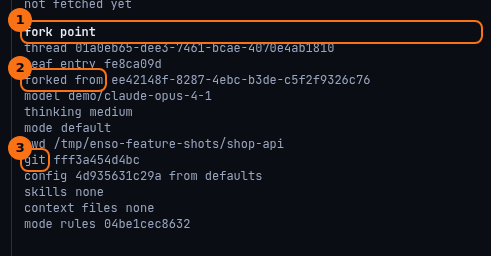
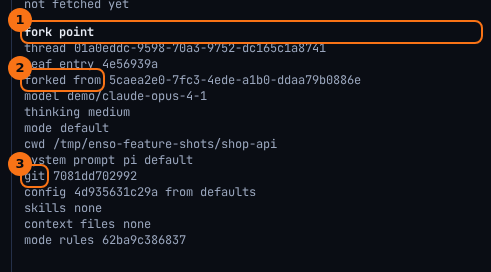
feat: the fork point names the system prompt a thread runs (#443)
Decision 3 from the #455 review. `EnsoForkPoint.conditions.systemPrompt` is read off the branch's
last `enso-system-prompt` entry — the same `threadSystemPrompt` the Context tab labels with — as a
library prompt's id, name, mode and sha256 (never its text), `null` for pi's default, or
`unreadable`. No new write: model and mode are derived from the branch the same way.

The lineage page tells people to compare two fork points and find exactly what differs; two
threads started with different system prompts now differ there, and a fork shows the prompt it
inherited. The debug drawer lists it as `Reviewer (append) · sha256 3f2a1b2c9d0e…`.

Tests: the schema (a text field is refused), the drawer row, the manifest route, and against pi's
real session: live, stored and on a fork, the fork point names the prompt the thread started with.

Changed region(s): [[0.0, 0.0, 1.0, 0.9062]]

diff --git a/packages/web/src/__tests__/thread-debug.test.tsx b/packages/web/src/__tests__/thread-debug.test.tsx
@@ -122,7 +122,7 @@ const renderWith = ({
   )
 
 // #435: the fork point, identity first, then what the thread runs under — hashes shortened.
-test('the fork point lists identity, then the conditions and the run context it records', () => {
+test('the fork point lists identity, then the conditions — the system prompt among them — and the run context it records', () => {
   const point: EnsoForkPoint = {
     identity: { threadId: 'fork-1', leafEntryId: 'e9', parentThreadId: 'source-1' },
     conditions: {
@@ -137,21 +137,32 @@ test('the fork point lists identity, then the conditions and the run context it 
         contextFiles: [{ path: '/repo/AGENTS.md', sha256: 'c'.repeat(64) }],
         mode: { rulesHash: 'd'.repeat(64) },
       },
+      systemPrompt: { id: 'reviewer', name: 'Reviewer', mode: 'append', sha256: 'e'.repeat(64) },
     },
   }
   const rendered = renderWith({ browser: believing('plan'), inspection: undefined, manifest: point })
-  const order = ['fork-1', 'source-1', 'anthropic/claude-x', 'high', '/repo', `${'a'.repeat(12)} dirty`]
+  const order = [
+    'fork-1',
+    'source-1',
+    'anthropic/claude-x',
+    'high',
+    '/repo',
+    `Reviewer (append) · sha256 ${'e'.repeat(12)}…`,
+    `${'a'.repeat(12)} dirty`,
+  ]
   const positions = order.map((text) => rendered.indexOf(text))
   expect(positions.every((position) => position >= 0)).toBe(true)
   expect(positions).toEqual([...positions].sort((first, second) => first - second))
   expect(rendered).toContain(`/repo/AGENTS.md ${'c'.repeat(12)}`)
   expect(rendered).not.toContain('c'.repeat(13))
+  expect(rendered).not.toContain('e'.repeat(13))
   const fresh = renderWith({
     browser: believing('plan'),
     inspection: undefined,
-    manifest: { ...point, conditions: { ...point.conditions, runContext: null } },
+    manifest: { ...point, conditions: { ...point.conditions, runContext: null, systemPrompt: null } },
   })
   expect(fresh).toContain('none recorded yet')
+  expect(fresh).toContain('pi default')
 })
 
 // ── the mismatch highlight ───────────────────────────────────────────────────

diff --git a/packages/web/src/host/__tests__/agent-host.test.ts b/packages/web/src/host/__tests__/agent-host.test.ts
@@ -1945,6 +1945,7 @@ test('⚠ two forks of one thread, one of them run under a changed context file,
     mode: 'default',
     cwd: repoRoot,
     runContext: recorded,
+    systemPrompt: null,
   })
   expect(changedPoint.conditions).toEqual({ ...plainPoint.conditions, runContext: changedContext })
   // PR #439 review: a newest record that does not read (another schema's) is unknown — never the
@@ -2279,6 +2280,23 @@ test("⚠⚠ a system prompt set at start is the first request's preamble in pla
   expect(systemMessages).toHaveLength(1)
   // The model never sees the record.
   expect(JSON.stringify(requests)).not.toContain(ENSO_SYSTEM_PROMPT_ENTRY)
+
+  // The fork point names it — live, stored, and on a fork, whose branch carries the record — by
+  // name and hash, never its text.
+  const named = { id: choice.id, name: choice.name, mode: choice.mode, sha256: choice.sha256 }
+  expect((await resumed.forkPoint()).conditions.systemPrompt).toEqual(named)
+  expect((await host.readStoredForkPoint(threadId))?.conditions.systemPrompt).toEqual(named)
+  const second = SessionManager.open(file)
+    .getBranch()
+    .find(
+      (entry) =>
+        entry.type === 'message' &&
+        entry.message.role === 'user' &&
+        JSON.stringify(entry.message.content).includes('two'),
+    )
+  const fork = await host.forkThread(threadId, second?.id ?? '')
+  if (fork.kind !== 'forked') throw new Error(`the fork was refused: ${fork.kind}`)
+  expect((await host.readStoredForkPoint(fork.threadId))?.conditions.systemPrompt).toEqual(named)
 })
 
 test("an append prompt keeps every pi section and adds its text after them; a session that already sent pi's default refuses one (#443)", async () => {

diff --git a/packages/core/src/__tests__/run-context.test.ts b/packages/core/src/__tests__/run-context.test.ts
@@ -37,9 +37,28 @@ test('a malformed run context reads as none: bad hash, missing field, a file bod
 test('a fork point takes an empty branch and no run context, and refuses an unknown field', () => {
   const point = {
     identity: { threadId: 't1', leafEntryId: null },
-    conditions: { model: null, thinkingLevel: null, mode: 'default', cwd: '/repo', runContext: null },
+    conditions: {
+      model: null,
+      thinkingLevel: null,
+      mode: 'default',
+      cwd: '/repo',
+      runContext: null,
+      systemPrompt: null,
+    },
   }
   expect(Check(EnsoForkPoint, point)).toBe(true)
   expect(Check(EnsoForkPoint, { ...point, conditions: { ...point.conditions, runContext: RECORD } })).toBe(true)
   expect(Check(EnsoForkPoint, { ...point, identity: { ...point.identity, sessionFile: '/x.jsonl' } })).toBe(false)
+})
+
+test("a fork point's system prompt is a library prompt's name and hash, pi's default or unreadable — never its text (#443)", () => {
+  const conditions = { model: null, thinkingLevel: null, mode: 'default', cwd: '/repo', runContext: null }
+  const point = (systemPrompt: unknown): unknown => ({
+    identity: { threadId: 't1', leafEntryId: null },
+    conditions: { ...conditions, systemPrompt },
+  })
+  const reviewer = { id: 'reviewer', name: 'Reviewer', mode: 'system', sha256: HASH }
+  expect(Check(EnsoForkPoint, point(reviewer))).toBe(true)
+  expect(Check(EnsoForkPoint, point('unreadable'))).toBe(true)
+  expect(Check(EnsoForkPoint, point({ ...reviewer, text: 'the prompt itself' }))).toBe(false)
 })

diff --git a/packages/web/src/host/fork-point.ts b/packages/web/src/host/fork-point.ts
@@ -1,5 +1,6 @@
 import { ENSO_RUN_CONTEXT_ENTRY, type EnsoForkPoint, lastCustomEntryData, readEnsoRunContext } from '@enso/core'
 import { persistedPermissionMode } from './permission-mode-adapter.ts'
+import { threadSystemPrompt } from './system-prompt.ts'
 import { recordedModelOf } from './transcript.ts'
 
 /**
@@ -7,8 +8,9 @@ import { recordedModelOf } from './transcript.ts'
  * session's memory and a stored file, so the manifest of a thread reads one way whether it is
  * running. Identity is the session id, the branch's leaf and the parent the listing resolves
  * (#433); the conditions are the branch's recorded model and level (#434), picc's last mode
- * name, the session's cwd, and the latest `enso-run-context` on the branch — the harness's
- * `run-context` extension writes one only when a condition changed, so the last one is current.
+ * name, the session's cwd, the latest `enso-run-context` on the branch — the harness's
+ * `run-context` extension writes one only when a condition changed, so the last one is current —
+ * and the system prompt its last `enso-system-prompt` entry names (#443), hash and name only.
  */
 
 /** The one field of a pi entry the fork point reads itself — the leaf's id. */
@@ -39,6 +41,7 @@ export function forkPointOf(
       // unknown, never walked past to one that reads.
       runContext:
         readEnsoRunContext(ENSO_RUN_CONTEXT_ENTRY, lastCustomEntryData(branch, ENSO_RUN_CONTEXT_ENTRY)) ?? null,
+      systemPrompt: threadSystemPrompt(branch),
     },
   }
 }

diff --git a/packages/web/src/thread-debug.tsx b/packages/web/src/thread-debug.tsx
@@ -225,6 +225,13 @@ function manifestProblemOf(failure: unknown): string {
   return failure instanceof Error ? failure.message : String(failure)
 }
 
+/** The fork point's system prompt as one line: the library prompt's name, mode and hash prefix, never its text. */
+function systemPromptRow(prompt: EnsoForkPoint['conditions']['systemPrompt']): string {
+  if (prompt === null) return 'pi default'
+  if (prompt === 'unreadable') return 'unreadable record'
+  return `${prompt.name} (${prompt.mode}) · sha256 ${prompt.sha256.slice(0, 12)}…`
+}
+
 /** The manifest (#435) as a definition list: identity first, then the conditions it runs under. */
 function ForkPointList({ reading }: { reading: ForkPointReading }): React.ReactNode {
   if (reading === undefined) return <div>reading…</div>
@@ -238,6 +245,7 @@ function ForkPointList({ reading }: { reading: ForkPointReading }): React.ReactN
     ['thinking', conditions.thinkingLevel ?? 'none recorded'],
     ['mode', conditions.mode],
     ['cwd', conditions.cwd],
+    ['system prompt', systemPromptRow(conditions.systemPrompt)],
     ...(conditions.runContext === null
       ? [['run context', 'none recorded yet'] as const]
       : runContextRows(conditions.runContext)),

diff --git a/packages/core/src/run-context.ts b/packages/core/src/run-context.ts
@@ -1,5 +1,6 @@
 import { type Static, Type } from 'typebox'
 import { Compile } from 'typebox/compile'
+import { EnsoThreadSystemPrompt } from './prompt-library.ts'
 import { EnsoRecordedModel } from './thread-runtime.ts'
 
 /**
@@ -129,6 +130,12 @@ export const EnsoForkPoint = Type.Object(
          * does not read (another schema's): an older one is not the current conditions.
          */
         runContext: Type.Union([EnsoRunContext, Type.Null()]),
+        /**
+         * The system prompt the branch records (#443): a library prompt's id, name, mode and hash —
+         * never its text — `null` for pi's default, `unreadable` for a record that does not read. Two
+         * threads started with different prompts differ here, and nowhere else says so.
+         */
+        systemPrompt: EnsoThreadSystemPrompt,
       },
       { additionalProperties: false },
     ),

diff --git a/packages/web/src/server/__tests__/fake-hosted-thread.ts b/packages/web/src/server/__tests__/fake-hosted-thread.ts
@@ -357,7 +357,14 @@ export function createFakeHostedThread(options: FakeHostedThreadOptions = {}): F
       Promise.resolve(
         options.forkPoint ?? {
           identity: { threadId: inspection.sessionId, leafEntryId: inspection.entries.at(-1)?.id ?? null },
-          conditions: { model: null, thinkingLevel: null, mode: 'default', cwd: inspection.cwd, runContext: null },
+          conditions: {
+            model: null,
+            thinkingLevel: null,
+            mode: 'default',
+            cwd: inspection.cwd,
+            runContext: null,
+            systemPrompt: null,
+          },
         },
       ),
   }
@@ -530,6 +537,7 @@ export function createFakeAgentHost(
             mode: storedThread.mode ?? fresh.mode,
             cwd: directoryOf(storedThread),
             runContext: null,
+            systemPrompt: null,
           },
         },
       )

diff --git a/packages/web/src/server/__tests__/server-handler.test.ts b/packages/web/src/server/__tests__/server-handler.test.ts
@@ -1276,7 +1276,14 @@ test('GET …/context/:request reads a turn or `next`; any other segment, or a t
 test('GET …/manifest answers a cold thread from its file without building, a live one from its session, and 404 for neither', async () => {
   const point: EnsoForkPoint = {
     identity: { threadId: 's1', leafEntryId: 'e2', parentThreadId: 's0' },
-    conditions: { model: null, thinkingLevel: 'high', mode: 'plan', cwd: '/repo', runContext: null },
+    conditions: {
+      model: null,
+      thinkingLevel: 'high',
+      mode: 'plan',
+      cwd: '/repo',
+      runContext: null,
+      systemPrompt: { id: 'reviewer', name: 'Reviewer', mode: 'system', sha256: 'e'.repeat(64) },
+    },
   }
   const { url, built } = await startWith(settlesAtOnce, {
     s1: { transcript: [], modified: new Date('2026-09-24T10:00:00.000Z'), firstMessage: 'one', forkPoint: point },

diff --git a/packages/web/src/host/system-prompt.ts b/packages/web/src/host/system-prompt.ts
@@ -62,8 +62,11 @@ function sameSystemPrompt(current: EnsoSystemPromptChoice | undefined, next: Ens
   return current.id === next.id && current.mode === next.mode && current.sha256 === next.sha256
 }
 
-/** The branch's system prompt as a view shows it: the choice without its text, pi's default, or unreadable. */
-export function threadSystemPrompt(branch: readonly SessionEntry[]): EnsoThreadSystemPrompt {
+/**
+ * The branch's system prompt as a view shows it — the Context tab's label, the fork point's
+ * condition: the choice without its text, pi's default, or unreadable.
+ */
+export function threadSystemPrompt(branch: readonly unknown[]): EnsoThreadSystemPrompt {
   const recorded = recordedSystemPrompt(branch)
   if (recorded.kind === 'none') return null
   if (recorded.kind === 'unreadable') return 'unreadable'

diff --git a/docs/reference/core-exports.md b/docs/reference/core-exports.md
@@ -55,7 +55,7 @@ glossary domain are checked records keyed by defining module; a new or unknown m
 | `ENSO_REDACT_FIELDS` | value | `@enso/core` | [`log.ts`](../../packages/core/src/log.ts) | [Record](../glossary.md#record) | wire | 0 | 0 | 0 | 0 | 0 | [L173](../../packages/core/src/log.ts#L173) |
 | `ENSO_REDACTED` | value | `@enso/core` | [`log.ts`](../../packages/core/src/log.ts) | [Record](../glossary.md#record) | wire | 0 | 0 | 0 | 0 | 0 | [L185](../../packages/core/src/log.ts#L185) |
 | `ENSO_REDACTED_VALUE` | value | `@enso/core` | [`log.ts`](../../packages/core/src/log.ts) | [Record](../glossary.md#record) | wire | 0 | 0 | 0 | 0 | 0 | [L197](../../packages/core/src/log.ts#L197) |
-| `ENSO_RUN_CONTEXT_ENTRY` | value | `@enso/core` | [`run-context.ts`](../../packages/core/src/run-context.ts) | [Thread](../glossary.md#thread), [Record](../glossary.md#record) | wire | 1 | 0 | 0 | 1 | 0 | [L28](../../packages/core/src/run-context.ts#L28) |
+| `ENSO_RUN_CONTEXT_ENTRY` | value | `@enso/core` | [`run-context.ts`](../../packages/core/src/run-context.ts) | [Thread](../glossary.md#thread), [Record](../glossary.md#record) | wire | 1 | 0 | 0 | 1 | 0 | [L29](../../packages/core/src/run-context.ts#L29) |
 | `ENSO_SYSTEM_PROMPT_ENTRY` | value | `@enso/core` | [`prompt-library.ts`](../../packages/core/src/prompt-library.ts) | [Thread](../glossary.md#thread), [Record](../glossary.md#record) | wire | 1 | 0 | 0 | 0 | 0 | [L295](../../packages/core/src/prompt-library.ts#L295) |
 | `ENSO_TOOL_RESULT_KEY` | value | `@enso/core` | [`tool-result.ts`](../../packages/core/src/tool-result.ts) | [Surface](../glossary.md#surface), [Observation](../glossary.md#observation) | wire | 1 | 1 | 1 | 0 | 0 | [L54](../../packages/core/src/tool-result.ts#L54) |
 | `EnsoAbortReceipt` | value | `@enso/core` | [`follow.ts`](../../packages/core/src/follow.ts) | [Control](../glossary.md#control), [Observation](../glossary.md#observation) | wire | 0 | 1 | 1 | 0 | 0 | [L261](../../packages/core/src/follow.ts#L261) |
@@ -98,7 +98,7 @@ glossary domain are checked records keyed by defining module; a new or unknown m
 | `EnsoFollowObservation` | value | `@enso/core` | [`follow.ts`](../../packages/core/src/follow.ts) | [Control](../glossary.md#control), [Observation](../glossary.md#observation) | wire | 0 | 0 | 0 | 0 | 0 | [L70](../../packages/core/src/follow.ts#L70) |
 | `EnsoFollowSnapshot` | value | `@enso/core` | [`follow.ts`](../../packages/core/src/follow.ts) | [Control](../glossary.md#control), [Observation](../glossary.md#observation) | wire | 0 | 0 | 1 | 0 | 0 | [L23](../../packages/core/src/follow.ts#L23) |
 | `EnsoFollowStatus` | value | `@enso/core` | [`follow.ts`](../../packages/core/src/follow.ts) | [Control](../glossary.md#control), [Observation](../glossary.md#observation) | wire | 0 | 0 | 1 | 0 | 0 | [L82](../../packages/core/src/follow.ts#L82) |
-| `EnsoForkPoint` | value | `@enso/core` | [`run-context.ts`](../../packages/core/src/run-context.ts) | [Thread](../glossary.md#thread), [Record](../glossary.md#record) | wire | 2 | 1 | 1 | 0 | 0 | [L106](../../packages/core/src/run-context.ts#L106) |
+| `EnsoForkPoint` | value | `@enso/core` | [`run-context.ts`](../../packages/core/src/run-context.ts) | [Thread](../glossary.md#thread), [Record](../glossary.md#record) | wire | 2 | 1 | 1 | 0 | 0 | [L107](../../packages/core/src/run-context.ts#L107) |
 | `EnsoForkReceipt` | value | `@enso/core` | [`thread-inspection.ts`](../../packages/core/src/thread-inspection.ts) | [Thread](../glossary.md#thread), [Observation](../glossary.md#observation) | wire | 0 | 1 | 3 | 0 | 0 | [L269](../../packages/core/src/thread-inspection.ts#L269) |
 | `EnsoForkRequest` | value | `@enso/core` | [`thread-inspection.ts`](../../packages/core/src/thread-inspection.ts) | [Thread](../glossary.md#thread), [Observation](../glossary.md#observation) | wire | 0 | 1 | 0 | 0 | 0 | [L259](../../packages/core/src/thread-inspection.ts#L259) |
 | `EnsoGitBaseline` | value | `@enso/core` | [`git-state.ts`](../../packages/core/src/git-state.ts) | [Thread](../glossary.md#thread), [Observation](../glossary.md#observation) | wire | 0 | 0 | 0 | 0 | 0 | [L45](../../packages/core/src/git-state.ts#L45) |
@@ -176,7 +176,7 @@ glossary domain are checked records keyed by defining module; a new or unknown m
 | `EnsoQuestionnaireResult` | type | `@enso/core` | [`dialog.ts`](../../packages/core/src/dialog.ts) | [Control](../glossary.md#control) | wire | 1 | 0 | 0 | 1 | 0 | [L121](../../packages/core/src/dialog.ts#L121) |
 | `EnsoQueue` | value | `@enso/core` | [`observation.ts`](../../packages/core/src/observation.ts) | [Observation](../glossary.md#observation) | wire | 0 | 0 | 0 | 0 | 0 | [L448](../../packages/core/src/observation.ts#L448) |
 | `EnsoRecordedModel` | value | `@enso/core` | [`thread-runtime.ts`](../../packages/core/src/thread-runtime.ts) | [Thread](../glossary.md#thread), [Control](../glossary.md#control) | host contract | 2 | 1 | 1 | 0 | 0 | [L120](../../packages/core/src/thread-runtime.ts#L120) |
-| `EnsoRunContext` | value | `@enso/core` | [`run-context.ts`](../../packages/core/src/run-context.ts) | [Thread](../glossary.md#thread), [Record](../glossary.md#record) | wire | 0 | 0 | 1 | 1 | 0 | [L42](../../packages/core/src/run-context.ts#L42) |
+| `EnsoRunContext` | value | `@enso/core` | [`run-context.ts`](../../packages/core/src/run-context.ts) | [Thread](../glossary.md#thread), [Record](../glossary.md#record) | wire | 0 | 0 | 1 | 1 | 0 | [L43](../../packages/core/src/run-context.ts#L43) |
 | `EnsoRunEnded` | value | `@enso/core` | [`observation.ts`](../../packages/core/src/observation.ts) | [Observation](../glossary.md#observation) | wire | 0 | 0 | 0 | 0 | 0 | [L551](../../packages/core/src/observation.ts#L551) |
 | `ensoSecretsPath` | value | `@enso/core/paths` | [`paths.ts`](../../packages/core/src/paths.ts) | [Project vocabulary](../glossary.md#project-vocabulary) | node-only utility | 1 | 0 | 0 | 1 | 1 | [L325](../../packages/core/src/paths.ts#L325) |
 | `EnsoSessionConfiguration` | value | `@enso/core` | [`thread-runtime.ts`](../../packages/core/src/thread-runtime.ts) | [Thread](../glossary.md#thread), [Control](../glossary.md#control) | host contract | 0 | 1 | 2 | 0 | 0 | [L255](../../packages/core/src/thread-runtime.ts#L255) |
@@ -301,7 +301,7 @@ glossary domain are checked records keyed by defining module; a new or unknown m
 | `readEnsoGuardDenial` | value | `@enso/core` | [`guard.ts`](../../packages/core/src/guard.ts) | [Permission](../glossary.md#permission) | config/policy | 0 | 1 | 1 | 0 | 0 | [L130](../../packages/core/src/guard.ts#L130) |
 | `readEnsoGuardDenialMetadata` | value | `@enso/core` | [`guard.ts`](../../packages/core/src/guard.ts) | [Permission](../glossary.md#permission) | config/policy | 0 | 0 | 1 | 0 | 0 | [L139](../../packages/core/src/guard.ts#L139) |
 | `readEnsoProviderRefusal` | value | `@enso/core` | [`provider-refusal.ts`](../../packages/core/src/provider-refusal.ts) | [Observation](../glossary.md#observation), [Record](../glossary.md#record) | wire | 0 | 0 | 1 | 0 | 0 | [L66](../../packages/core/src/provider-refusal.ts#L66) |
-| `readEnsoRunContext` | value | `@enso/core` | [`run-context.ts`](../../packages/core/src/run-context.ts) | [Thread](../glossary.md#thread), [Record](../glossary.md#record) | wire | 1 | 0 | 0 | 0 | 0 | [L95](../../packages/core/src/run-context.ts#L95) |
+| `readEnsoRunContext` | value | `@enso/core` | [`run-context.ts`](../../packages/core/src/run-context.ts) | [Thread](../glossary.md#thread), [Record](../glossary.md#record) | wire | 1 | 0 | 0 | 0 | 0 | [L96](../../packages/core/src/run-context.ts#L96) |
 | `readEnsoSessionEval` | value | `@enso/core` | [`session-eval.ts`](../../packages/core/src/session-eval.ts) | [Thread](../glossary.md#thread), [Record](../glossary.md#record) | wire | 0 | 0 | 0 | 0 | 1 | [L239](../../packages/core/src/session-eval.ts#L239) |
 | `readEnsoSystemPromptChoice` | value | `@enso/core` | [`prompt-library.ts`](../../packages/core/src/prompt-library.ts) | [Thread](../glossary.md#thread), [Record](../glossary.md#record) | wire | 0 | 0 | 0 | 0 | 0 | [L332](../../packages/core/src/prompt-library.ts#L332) |
 | `readEnsoToolResultDescriptor` | value | `@enso/core` | [`tool-result.ts`](../../packages/core/src/tool-result.ts) | [Surface](../glossary.md#surface), [Observation](../glossary.md#observation) | wire | 0 | 0 | 1 | 0 | 0 | [L126](../../packages/core/src/tool-result.ts#L126) |

diff --git a/docs/glossary.md b/docs/glossary.md
@@ -67,7 +67,7 @@ each: `thread` is the noun everywhere the id crosses; `session` is reserved for 
 | **custom entry** | an entry an extension appended to persist its own state — the permission mode is one, a guard refusal (#387) another, the run context (#435) a third; the host appends one too, the thread's system prompt (#443). The pattern for anything durable that must travel with a fork | `customType` | the appending extension, or the host | the log; a fork inherits it by construction |
 | **fork** | a new log whose header names its parent; the branch is copied to the fork point. Made from the browser at a user message (#433): the fork holds everything before it, and its composer opens holding the message's words; the listing names the parent as `parentThreadId` | a new thread id; `parentSession` in its header | the runtime | the runtime |
 | **system prompt** | the head of every request the model receives: the runtime's sections (preamble, tools, rules, docs, project context, skills, cwd) and the tool definitions. A thread's is **the runtime's default** unless it started with a library prompt (#443) — chosen before the first request (a later choice before it replaces the earlier one, the runtime's default included), and from then on **fixed for the thread's life**: a head rewritten per turn throws the prompt cache away. The choice is recorded in the log as the `enso-system-prompt` custom entry, text included (`null` for the runtime's default chosen over an earlier one), so a resume and a fork run what the thread started with; the Context tab names it on its system-prompt row (`EnsoThreadSystemPrompt`, `unreadable` never read as the default). `EnsoSystemPromptChoice` | the library prompt's id and a sha256 of its text | the Start dialog's `POST …/configure` | the log |
-| **fork point** | the position a fork was taken from, and what it ran under (#435): its identity — the thread, the branch's leaf entry, the parent — and its conditions — model, thinking level, mode, cwd, and the latest run context (project revision, config, skills, context files, the mode's rules). `EnsoForkPoint`, served by `GET /api/threads/:threadId/manifest` | the leaf entry id | derived from the branch on read: the runtime's entries and Enso's custom entries | never stored; the manifest route and the debug drawer read it |
+| **fork point** | the position a fork was taken from, and what it ran under (#435): its identity — the thread, the branch's leaf entry, the parent — and its conditions — model, thinking level, mode, cwd, the latest run context (project revision, config, skills, context files, the mode's rules), and the system prompt the branch records (#443: a library prompt's id, name, mode and hash, never its text; `null` for the runtime's default). `EnsoForkPoint`, served by `GET /api/threads/:threadId/manifest` | the leaf entry id | derived from the branch on read: the runtime's entries and Enso's custom entries | never stored; the manifest route and the debug drawer read it |
 | **run** | one acquisition of a thread: from a prompt's admission to *settled*. Not one prompt — prompts during a run queue into it, and steering, follow-ups and retries all land inside one run. The unit a receipt names and a log record belongs to | `generation` | `acquire()` | the lease; ended by the settle observer, never by a route or a click |
 | **generation** | the run's number: per thread, monotonic for the server's lifetime, kept across dispose, **reset when the server restarts** — which is what "lost session" means. The stale-lease fence, and the receipt the browser compares against | integer, memory only | the registry | — |
 | **turn** | one model request and the tool results it produced, as the runtime marks it (`turn-start` / `turn-end`). *Decision (6):* this is the only meaning; the status bar's "turns" (a count of user messages) is a **prompt** count and is renamed. Several turns make a run | — | the runtime | — |

diff --git a/docs/features/lineage.md b/docs/features/lineage.md
@@ -26,7 +26,7 @@ Every thread also carries a record of the conditions it ran under, its *fork poi
 
 ![The fork's fork point in the debug drawer](./images/lineage-fork-point.png)
 
-1. **fork point**: identity first (the thread, the entry its branch ends at, the thread it was forked from), then the conditions.
+1. **fork point**: identity first (the thread, the entry its branch ends at, the thread it was forked from), then the conditions, among them the **system prompt**: `pi default`, or a library prompt's name, its mode and the start of its hash.
 2. The parent thread's id.
 3. The conditions Enso recorded at the last run start: `git` is the project's revision, `config` the hash of the resolved config and where it came from, then the skills, the context files and the mode's rules.
 
@@ -34,7 +34,7 @@ Every thread also carries a record of the conditions it ran under, its *fork poi
 
 The thread above was forked before its third prompt, the one that asked pi to change `src/config.ts`. The fork holds the first two prompts and their answers, and nothing after. That is the point to fork from when you want to try the same request another way: on another model, in another mode, or after changing a context file.
 
-Then compare the two fork points. Outside the identity rows, they should differ in exactly what you changed. If they differ in something else, such as a revision you didn't expect or a context file that changed under you, the two runs are not the comparison you meant.
+Then compare the two fork points. Outside the identity rows, they should differ in exactly what you changed. If they differ in something else, such as a revision you didn't expect or a context file that changed under you, the two runs are not the comparison you meant. The same goes for two threads started with different system prompts: the **system prompt** row is where they differ. A fork keeps its parent's system prompt, since the prompt is fixed once a thread has sent its first request.
 
 The run context is written only when something in it changes. A thread that ran ten turns on an unchanged tree carries one record, not ten. A fork inherits the records on its branch, so its first run adds one only if a condition changed.
 
@@ -42,7 +42,7 @@ A thread you open after a restart shows the model it last ran on, marked `model 
 
 ## What it doesn't do
 
-- It records hashes and paths, never the contents of a config value or a context file. It can tell you that `AGENTS.md` changed, not what changed in it.
+- It records hashes and paths, never the contents of a config value, a context file or a system prompt. It can tell you that `AGENTS.md` changed, or which library prompt a thread started with, not what is in them.
 - Forking doesn't copy files. The project's working tree is shared, so a fork that edits a file edits it for every thread in that project.
 - The browser forks at a prompt, as pi's `/fork` does. Moving inside one thread's tree (pi's `/tree` and `/branch`) is not in the browser.
 - There is no side-by-side comparison view. You compare the two fork points yourself, or with [Session eval](./session-eval.md).
